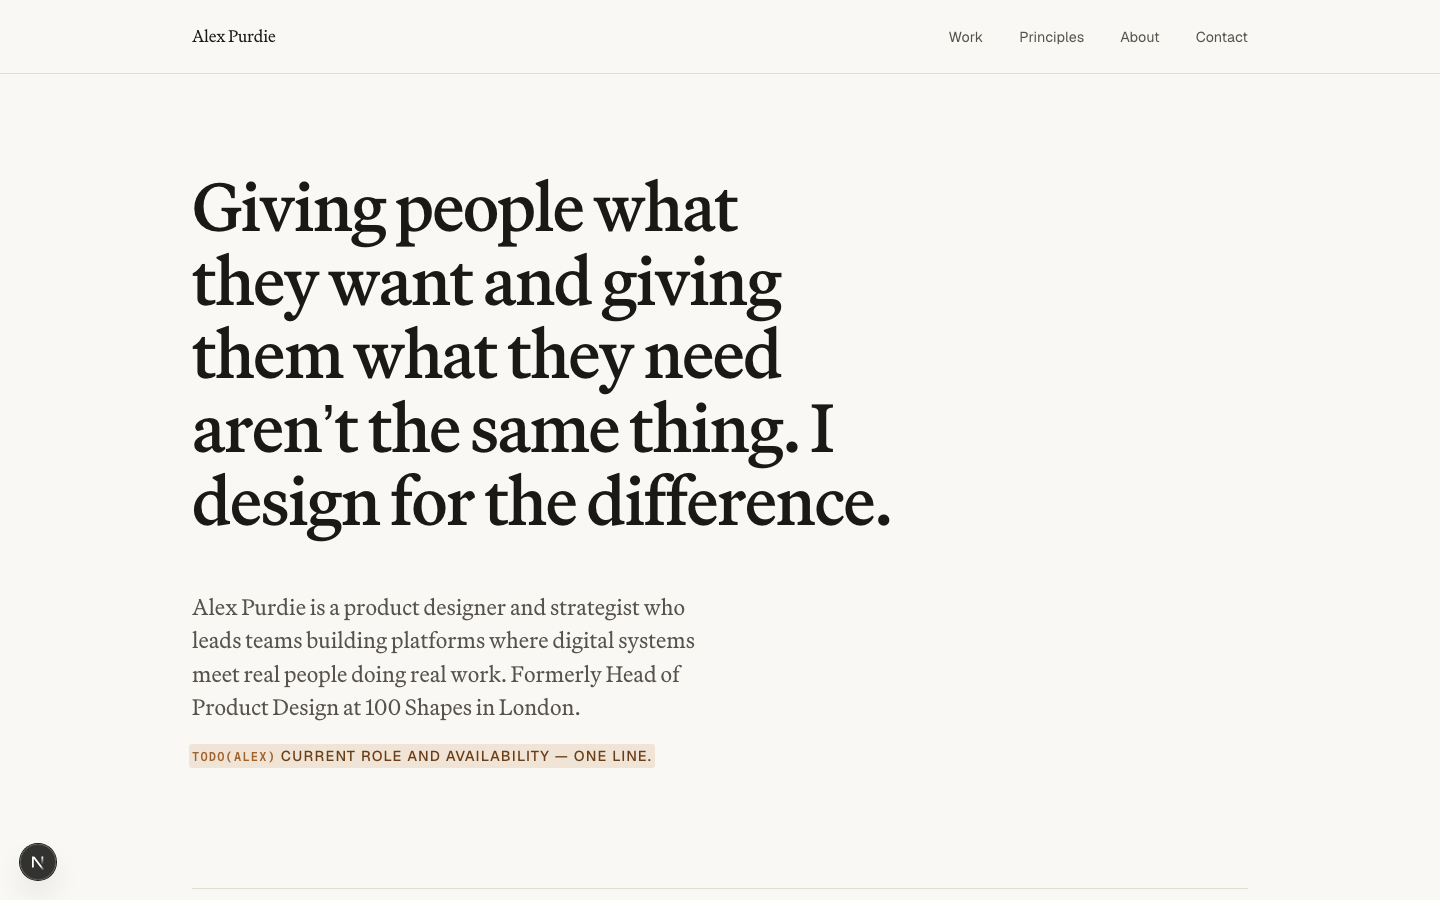
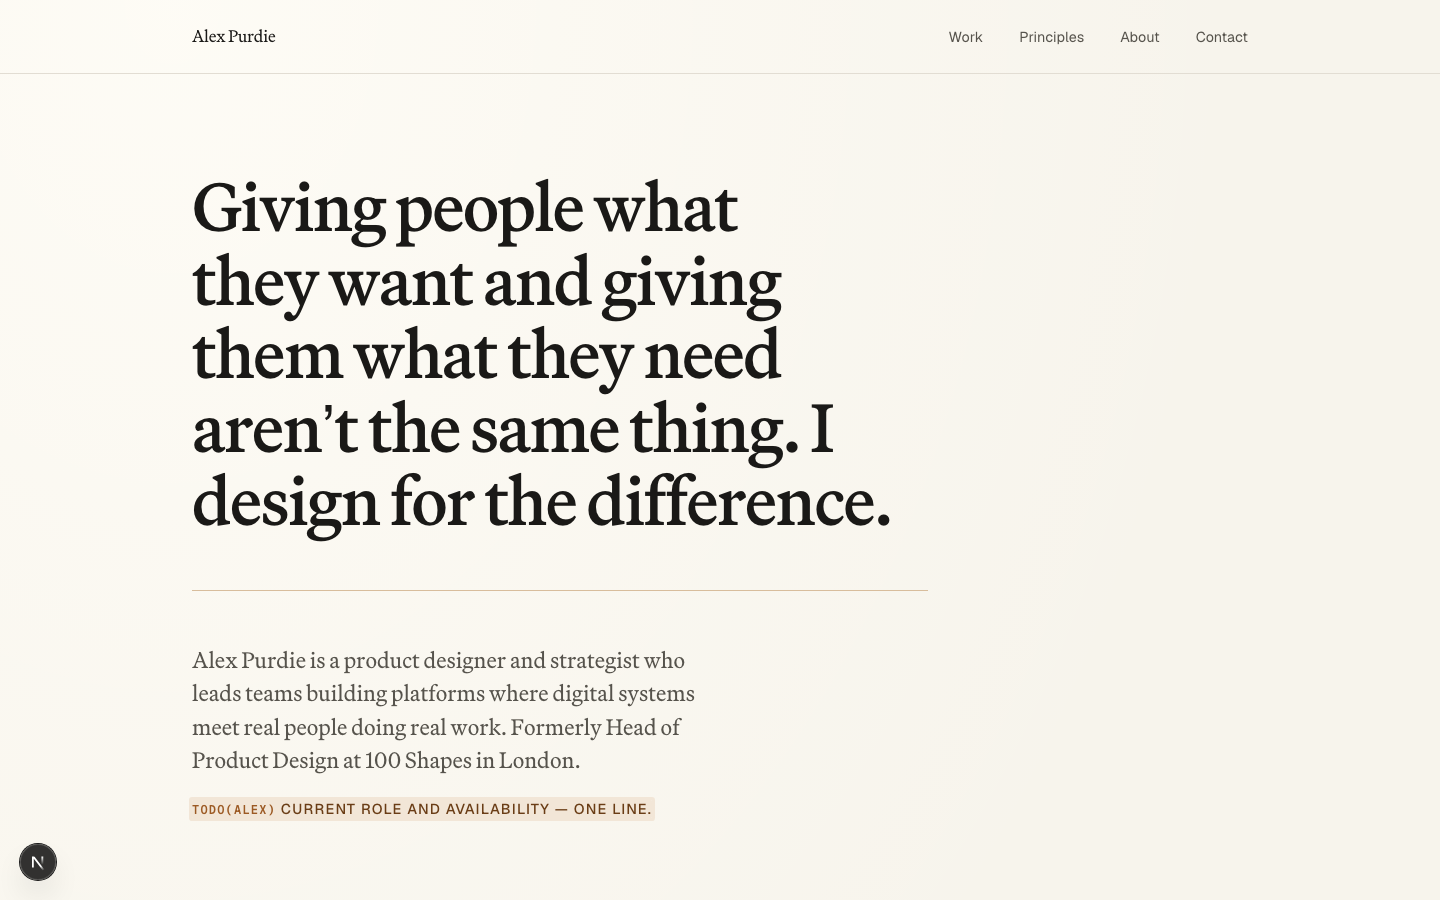
Put the 40% back into a 60/40 brief
The first pass was bland and that was over-correction, not intent. Coming off a
site that spent its novelty budget in five places, I spent it in none — which
the framework has a line for: mistaking minimalism for restraint when it is
just emptiness. Restraint only reads as confidence when shipped evidence is
carrying the page, and this page is carrying grey hatch boxes.

Three specific failures, now fixed.

The accent did nothing. It appeared on a hover underline and the TODO
highlights, which is a decoration rather than a color system. It now does
structural work: the rule under the hero belief, the top edge of the framing
strip, the leading rule on every section heading, the numerals on Principles,
and the border on the AI asides.

The type scale had a top and a bottom and nothing between — a 4.25rem display
against 1.3rem section heads, so every page read as one big thing followed by a
lot of small things. Adds a section tier and a metric tier.

The strongest facts on the site were a bulleted list. 10,000+ students, 99+
sites, 120+ pages, 10 months — set as body text with dashes. They are now
metrics: scale in display type, explanation in small print, which is the
opposite of how a paragraph weights them and the right way round for a reader
scanning for whether this person operates at scale.

The ground also has temperature now. Two very wide, very low-contrast washes so
the page has a direction of light rather than being one flat fill, and the
[…]

Changed region(s): [[0.125, 0.6533, 0.5, 0.9333]]

diff --git a/src/app/globals.css b/src/app/globals.css
@@ -625,3 +625,174 @@ a:hover {
     width: calc(var(--measure) + var(--lane) + 3rem);
   }
 }
+
+/* ═══════════════════════════════════════════════════════════════════════════
+   WARMTH AND STRUCTURE
+
+   The first pass had a top and a bottom to its type scale and nothing between,
+   an accent that only appeared on hover, and a flat ground. That is not
+   restraint, it is absence. These rules are the 40% of a 60/40 brief.
+   ═══════════════════════════════════════════════════════════════════════════ */
+
+/* A ground with temperature. Two very wide, very low-contrast washes so the
+   page has a direction of light rather than being one flat fill. */
+body {
+  background-image:
+    radial-gradient(
+      120% 80% at 12% 0%,
+      rgb(255 253 247 / 0.85) 0%,
+      rgb(255 253 247 / 0) 62%
+    ),
+    radial-gradient(
+      100% 70% at 100% 100%,
+      rgb(214 200 176 / 0.22) 0%,
+      rgb(214 200 176 / 0) 60%
+    );
+  background-attachment: scroll;
+}
+
+/* ── Section headers ───────────────────────────────────────────────────────
+   A label, a short accent rule, and real size. The rule is the only piece of
+   pure decoration on the site and it earns its place by making sections
+   findable when scanning rather than reading. */
+.section-head {
+  display: flex;
+  align-items: baseline;
+  gap: 0.9rem;
+  margin-bottom: 1.5rem;
+}
+
+.section-head::after {
+  content: "";
+  flex: 1;
+  height: 1px;
+  background: linear-gradient(
+    90deg,
+    var(--accent-line) 0%,
+    var(--rule) 40%,
+    rgb(0 0 0 / 0) 100%
+  );
+}
+
+/* Prose headings inside a case study get the same treatment, so the reading
+   column has landmarks. */
+.case__body h2 {
+  font-size: var(--t-section);
+  margin-top: var(--space-section);
+  margin-bottom: 1rem;
+  padding-top: 1.1rem;
+  border-top: 1px solid var(--rule);
+  position: relative;
+}
+
+.case__body h2::before {
+  content: "";
+  position: absolute;
+  top: -1px;
+  left: 0;
+  width: 3.5rem;
+  height: 1px;
+  background: var(--accent);
+}
+
+.case__body h3 {
+  font-size: var(--t-head);
+  font-style: italic;
+  color: var(--ink);
+  margin-top: 2.25rem;
+}
+
+/* ── Metrics ───────────────────────────────────────────────────────────────
+   Scale first, explanation second. */
+.metrics {
+  display: grid;
+  grid-template-columns: repeat(auto-fit, minmax(min(100%, 11rem), 1fr));
+  gap: clamp(1.5rem, 3vw, 2.5rem);
+  margin: var(--space-block) 0;
+  padding: var(--space-block) 0;
+  border-top: 1px solid var(--rule);
+  border-bottom: 1px solid var(--rule);
+  max-width: none;
+  width: min(var(--page), 100%);
+}
+
+@media (min-width: 1100px) {
+  .metrics {
+    width: calc(var(--measure) + var(--lane) + 3rem);
+  }
+}
+
+.metric__value {
+  font-size: var(--t-metric);
+  line-height: 1;
+  letter-spacing: -0.03em;
+  font-weight: 500;
+  font-variant-numeric: tabular-nums;
+  /* The one place a number is allowed to be the loudest thing on the page. */
+  color: var(--ink);
+}
+
+.metric__of {
+  margin: 0.55rem 0 0;
+  font-family: var(--sans);
+  font-size: var(--t-small);
+  line-height: 1.45;
+  color: var(--ink-soft);
+  max-width: 16rem;
+}
+
+/* ── The framing strip, with the question carrying weight ─────────────── */
+.framing {
+  background: var(--bone-sunk);
+  border-top: 1px solid var(--accent-line);
+  border-bottom: 1px solid var(--rule);
+  padding-inline: clamp(1.25rem, 3vw, 2.5rem);
+  margin-inline: clamp(-1.25rem, -3vw, -2.5rem);
+}
+
+.framing__challenge {
+  font-size: var(--t-section);
+  font-style: italic;
+  color: var(--ink);
+}
+
+/* ── Principles with presence ──────────────────────────────────────────── */
+.principle__num {
+  color: var(--accent);
+  font-size: 0.85rem;
+  letter-spacing: 0.06em;
+}
+
+.principle__name {
+  font-size: var(--t-section);
+}
+
+.principle:first-of-type {
+  border-top-color: var(--accent-line);
+}
+
+/* ── The hero belief, with the accent under it ─────────────────────────── */
+.hero__belief {
+  padding-bottom: var(--space-block);
+  border-bottom: 1px solid var(--accent-line);
+  margin-bottom: var(--space-block);
+}
+
+/* Pull quotes in a case study read as testimony, not as body copy. */
+.case__body blockquote {
+  margin: var(--space-block) 0;
+  padding-left: 1.25rem;
+  border-left: 2px solid var(--accent-line);
+  font-size: var(--t-lede);
+  line-height: 1.45;
+  font-style: italic;
+  color: var(--ink);
+}
+
+.case__body blockquote + p em,
+.case__body blockquote + p {
+  font-family: var(--sans);
+  font-size: var(--t-small);
+  color: var(--ink-quiet);
+  font-style: normal;
+}

diff --git a/src/styles/tokens.css b/src/styles/tokens.css
@@ -14,8 +14,12 @@
   color-scheme: light;
 
   /* ── Ground and ink ───────────────────────────────────────────────────── */
-  --bone: #faf8f4;
-  --bone-sunk: #f3f0e9;
+  /* Warmer and a shade deeper than white. A page that is #fff with black text
+     has no temperature, and temperature is where the 40% warmth in a 60/40
+     brief actually lives. */
+  --bone: #f7f4ec;
+  --bone-sunk: #efeade;
+  --bone-deep: #e8e2d2;
   --ink: #1a1917;
   --ink-soft: #56534c;
   /* The quietest text allowed. Measured at 4.6:1 on --bone; anything lighter
@@ -24,8 +28,11 @@
   --rule: #e2ddd3;
   --rule-strong: #cdc6b8;
 
-  --accent: #a0612b;
-  --accent-soft: #f0e4d6;
+  /* One accent, but it has to do structural work rather than sit on a hover
+     state: section rules, numerals, the question at the top of a case study. */
+  --accent: #9c5a24;
+  --accent-soft: #f2e6d7;
+  --accent-line: #d8bd9c;
 
   /* ── Type ─────────────────────────────────────────────────────────────── */
   --serif: var(--font-martina-plantijn), "Iowan Old Style", Georgia, serif;
@@ -34,7 +41,12 @@
 
   --t-display: clamp(2.6rem, 6vw, 4.25rem);
   --t-title: clamp(2rem, 4.4vw, 3.1rem);
-  --t-head: clamp(1.3rem, 2.2vw, 1.6rem);
+  /* The missing middle. Section heads were 1.3rem against a 4.25rem display —
+     a scale with a top and a bottom and nothing in between has no rhythm, and
+     every page read as one big thing followed by a lot of small things. */
+  --t-section: clamp(1.6rem, 3vw, 2.15rem);
+  --t-metric: clamp(2.1rem, 4.5vw, 3rem);
+  --t-head: clamp(1.25rem, 2vw, 1.45rem);
   --t-lede: clamp(1.15rem, 1.7vw, 1.4rem);
   --t-body: 1.0625rem;
   --t-small: 0.9rem;

diff --git a/src/app/page.tsx b/src/app/page.tsx
@@ -56,7 +56,7 @@ export default function Home() {
             none: stating who you are not for reads as confidence and filters
             the inbound. Alex's own words, cut to about half the length. */}
         <section className="section not-for" aria-labelledby="not-for-heading">
-          <h2 id="not-for-heading" className="label">
+          <h2 id="not-for-heading" className="label section-head">
             Who I’m not for
           </h2>
           <p className="not-for__line measure">
@@ -73,7 +73,7 @@ export default function Home() {
         <hr className="rule" />
 
         <section className="section clients" aria-labelledby="clients-heading">
-          <h2 id="clients-heading" className="label">
+          <h2 id="clients-heading" className="label section-head">
             Selected clients
           </h2>
           <p className="clients__list">{CLIENTS.join(" · ")}</p>
@@ -82,7 +82,7 @@ export default function Home() {
         <hr className="rule" />
 
         <section className="section work" aria-labelledby="work-heading">
-          <h2 id="work-heading" className="label">
+          <h2 id="work-heading" className="label section-head">
             Selected work
           </h2>
           <div className="work__grid">
@@ -101,7 +101,7 @@ export default function Home() {
         <hr className="rule" />
 
         <section className="section contact" aria-labelledby="contact-heading">
-          <h2 id="contact-heading" className="label">
+          <h2 id="contact-heading" className="label section-head">
             Contact
           </h2>
           <p className="contact__line measure">

diff --git a/src/components/metrics.tsx b/src/components/metrics.tsx
@@ -1,0 +1,24 @@
+/*
+ * Outcomes, set as outcomes.
+ *
+ * These were a bulleted list, which is how the strongest facts on a case study
+ * end up reading like a changelog. A staff-level reader scans for scale first,
+ * so scale gets display type and the explanation gets the small print — the
+ * opposite of how a paragraph would weight them.
+ */
+export function Metrics({
+  items,
+}: {
+  items: { value: string; of: string }[];
+}) {
+  return (
+    <dl className="metrics">
+      {items.map((m) => (
+        <div key={m.of} className="metric">
+          <dt className="metric__value">{m.value}</dt>
+          <dd className="metric__of">{m.of}</dd>
+        </div>
+      ))}
+    </dl>
+  );
+}

diff --git a/src/mdx-components.tsx b/src/mdx-components.tsx
@@ -1,6 +1,7 @@
 import type { MDXComponents } from "mdx/types";
 import { Aside } from "@/components/aside";
 import { Figure } from "@/components/figure";
+import { Metrics } from "@/components/metrics";
 import { Slot } from "@/components/slot";
 import { Todo } from "@/components/todo";
 
@@ -12,5 +13,5 @@ import { Todo } from "@/components/todo";
  * place in its own prose is an <Aside>. Everything else is ordinary markup.
  */
 export function useMDXComponents(components: MDXComponents): MDXComponents {
-  return { Aside, Figure, Slot, Todo, ...components };
+  return { Aside, Figure, Metrics, Slot, Todo, ...components };
 }
